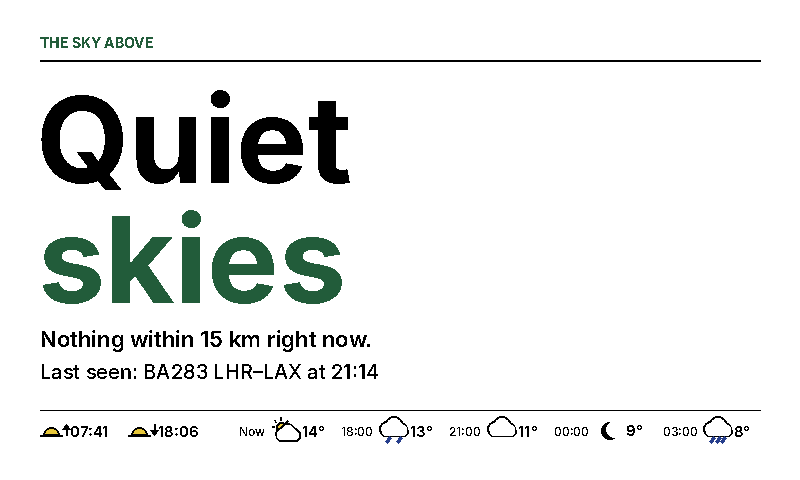
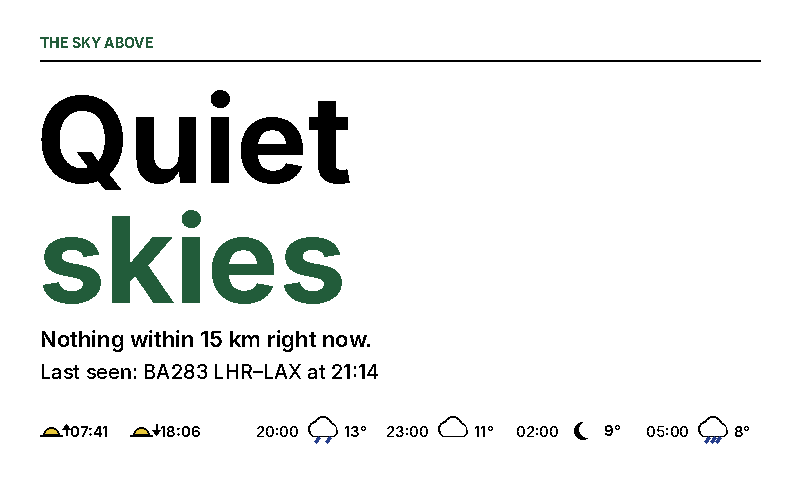
Cleaner bottom of the screen
- Remove the rules above the figures and above the bottom line
- Weather text the same size as the sunrise and sunset times
- More space either side of each weather icon
- When the full row doesn't fit, show the next four forecasts
  (+3 to +12 hours) and drop "Now"

Claude-Session: https://claude.ai/code/session_018gFwbrNEjFhUAusQjyrhwY

Changed region(s): [[0.3125, 0.8438, 0.9375, 0.9375], [0.1562, 0.875, 0.25, 0.9062]]

diff --git a/flightframe/render.py b/flightframe/render.py
@@ -135,7 +135,6 @@ def _header(c, left, right, accent):
 
 def _footer(c, cfg, extra=""):
     y = c.h - c.m + 4
-    c.rule(y - 22, thick=1)
     label = cfg.get("label") or ""
     c.text((c.m, y), label, font("regular", 15), anchor="ls")
     right = f"{extra}  ·  {_now()}" if extra else f"Updated {_now()}"
@@ -229,10 +228,9 @@ def _footer_wx(c, wx):
     """Bottom line on one row: sunrise and sunset, then the next 12 hours."""
     bottom = c.h - c.m + 10
     top = bottom - FOOTER_WX
-    c.rule(top, thick=1)
     mid = top + FOOTER_WX // 2 + 1
     f_time = font("semi", 15)
-    f_hour = font("regular", 12)
+    f_hour = font("regular", 15)          # same size as the sunrise/sunset times
     f_temp = font("semi", 15)
     x = c.m
     sun = (wx or {}).get("sun") or (None, None)
@@ -240,7 +238,7 @@ def _footer_wx(c, wx):
         for t, up in ((sun[0], True), (sun[1], False)):
             _sun_glyph(c.d, x + 11, mid, up)
             c.text((x + 30, mid), t.strftime("%H:%M"), f_time, anchor="lm")
-            x += 30 + int(text_w(c.d, "00:00", f_time)) + 14
+            x += 30 + int(text_w(c.d, "00:00", f_time)) + 16
     slots = (wx or {}).get("slots") or []
     if not slots:
         c.text((c.w - c.m, mid), f"Updated {_now()}", font("regular", 13), anchor="rm")
@@ -248,15 +246,18 @@ def _footer_wx(c, wx):
     hour_w = int(text_w(c.d, "00:00", f_hour))
     temp_w = int(text_w(c.d, "00°", f_temp))
     icon = 24
-    pad_l, pad_r = 9, 4                 # room for sun rays on the left of an icon
+    pad_l, pad_r = 12, 9                # space either side of each icon
     cell = hour_w + pad_l + icon + pad_r + temp_w
-    gap = 11
+    gap = 16
     room = c.w - c.m - x - 6
-    n = max(0, min(len(slots), (room + gap) // (cell + gap)))
-    x0 = c.w - c.m - n * cell - (n - 1) * gap
+    fits = max(0, (room + gap) // (cell + gap))
+    if fits < len(slots):
+        slots = slots[1:]               # short of space: the next hours matter more than now
+    n = min(len(slots), fits)
+    x0 = c.w - c.m - n * cell - max(0, n - 1) * gap
     for i, sl in enumerate(slots[:n]):
         cx = x0 + i * (cell + gap)
-        label = "Now" if i == 0 else sl["time"].strftime("%H:%M")
+        label = "Now" if sl is (wx or {}).get("slots", [None])[0] else sl["time"].strftime("%H:%M")
         c.text((cx + hour_w, mid), label, f_hour, anchor="rm")
         weather_icon(c.d, sl["kind"], sl["day"], cx + hour_w + pad_l + icon // 2, mid, icon)
         c.text((cx + hour_w + pad_l + icon + pad_r, mid), f"{round(sl['temp'])}°", f_temp, anchor="lm")
@@ -389,7 +390,6 @@ def poster(f, cfg, nearby=0, logo=None, wx=None):
 
     # --- figures
     y = max(y + 10, stats_top)
-    c.rule(y - 14, thick=1)
     ph = phase(f)
     cells = [
         ("Altitude" + ("" if ph == "level" else f" · {ph}"), fmt_alt(f.altitude_ft, units)),
